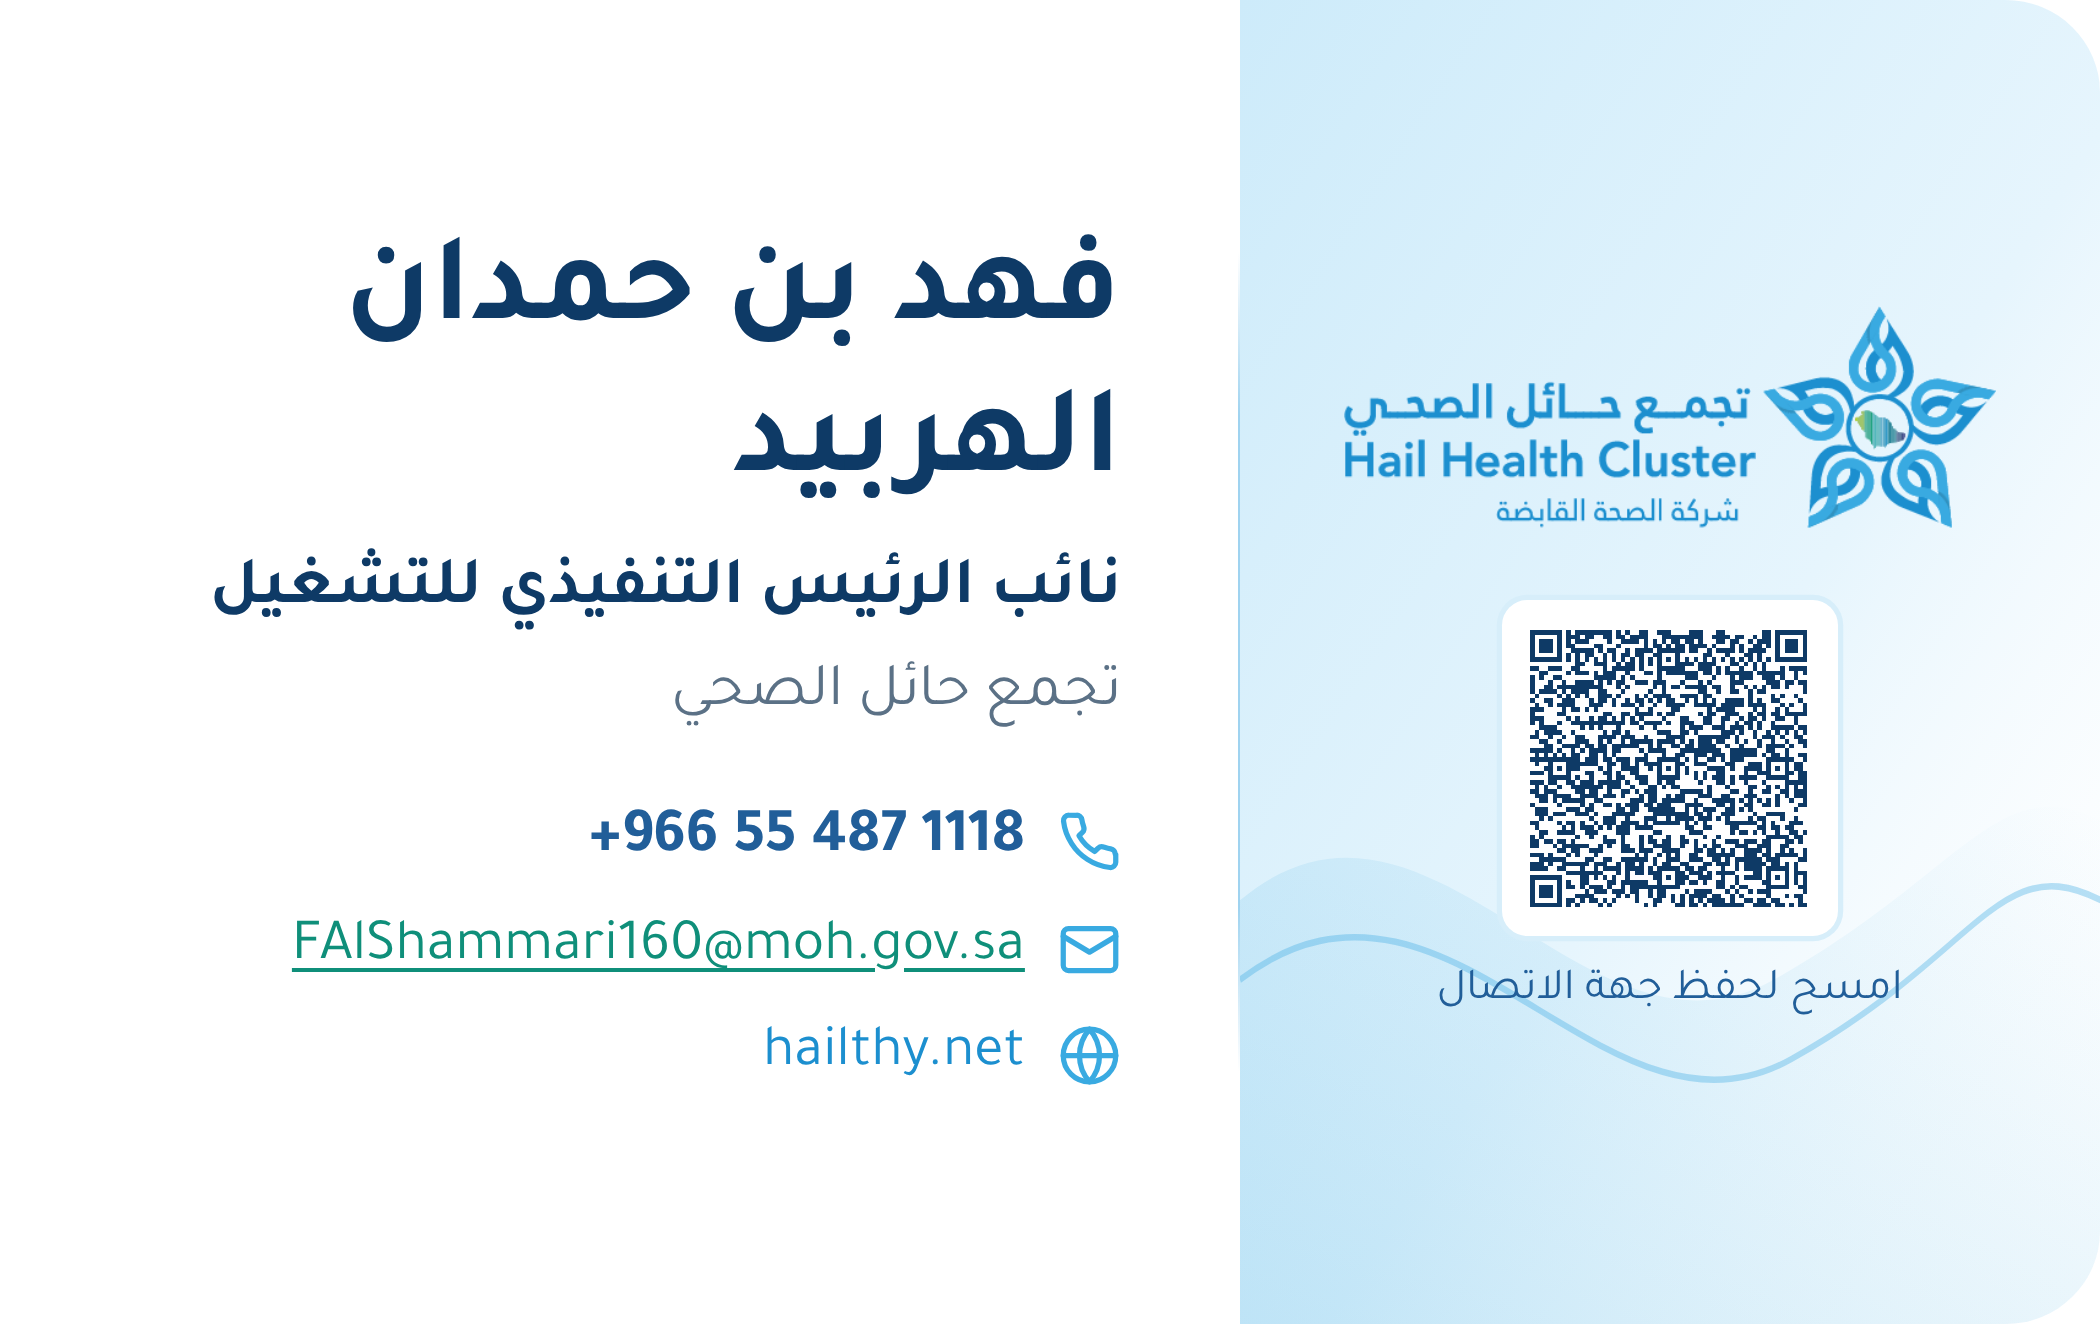
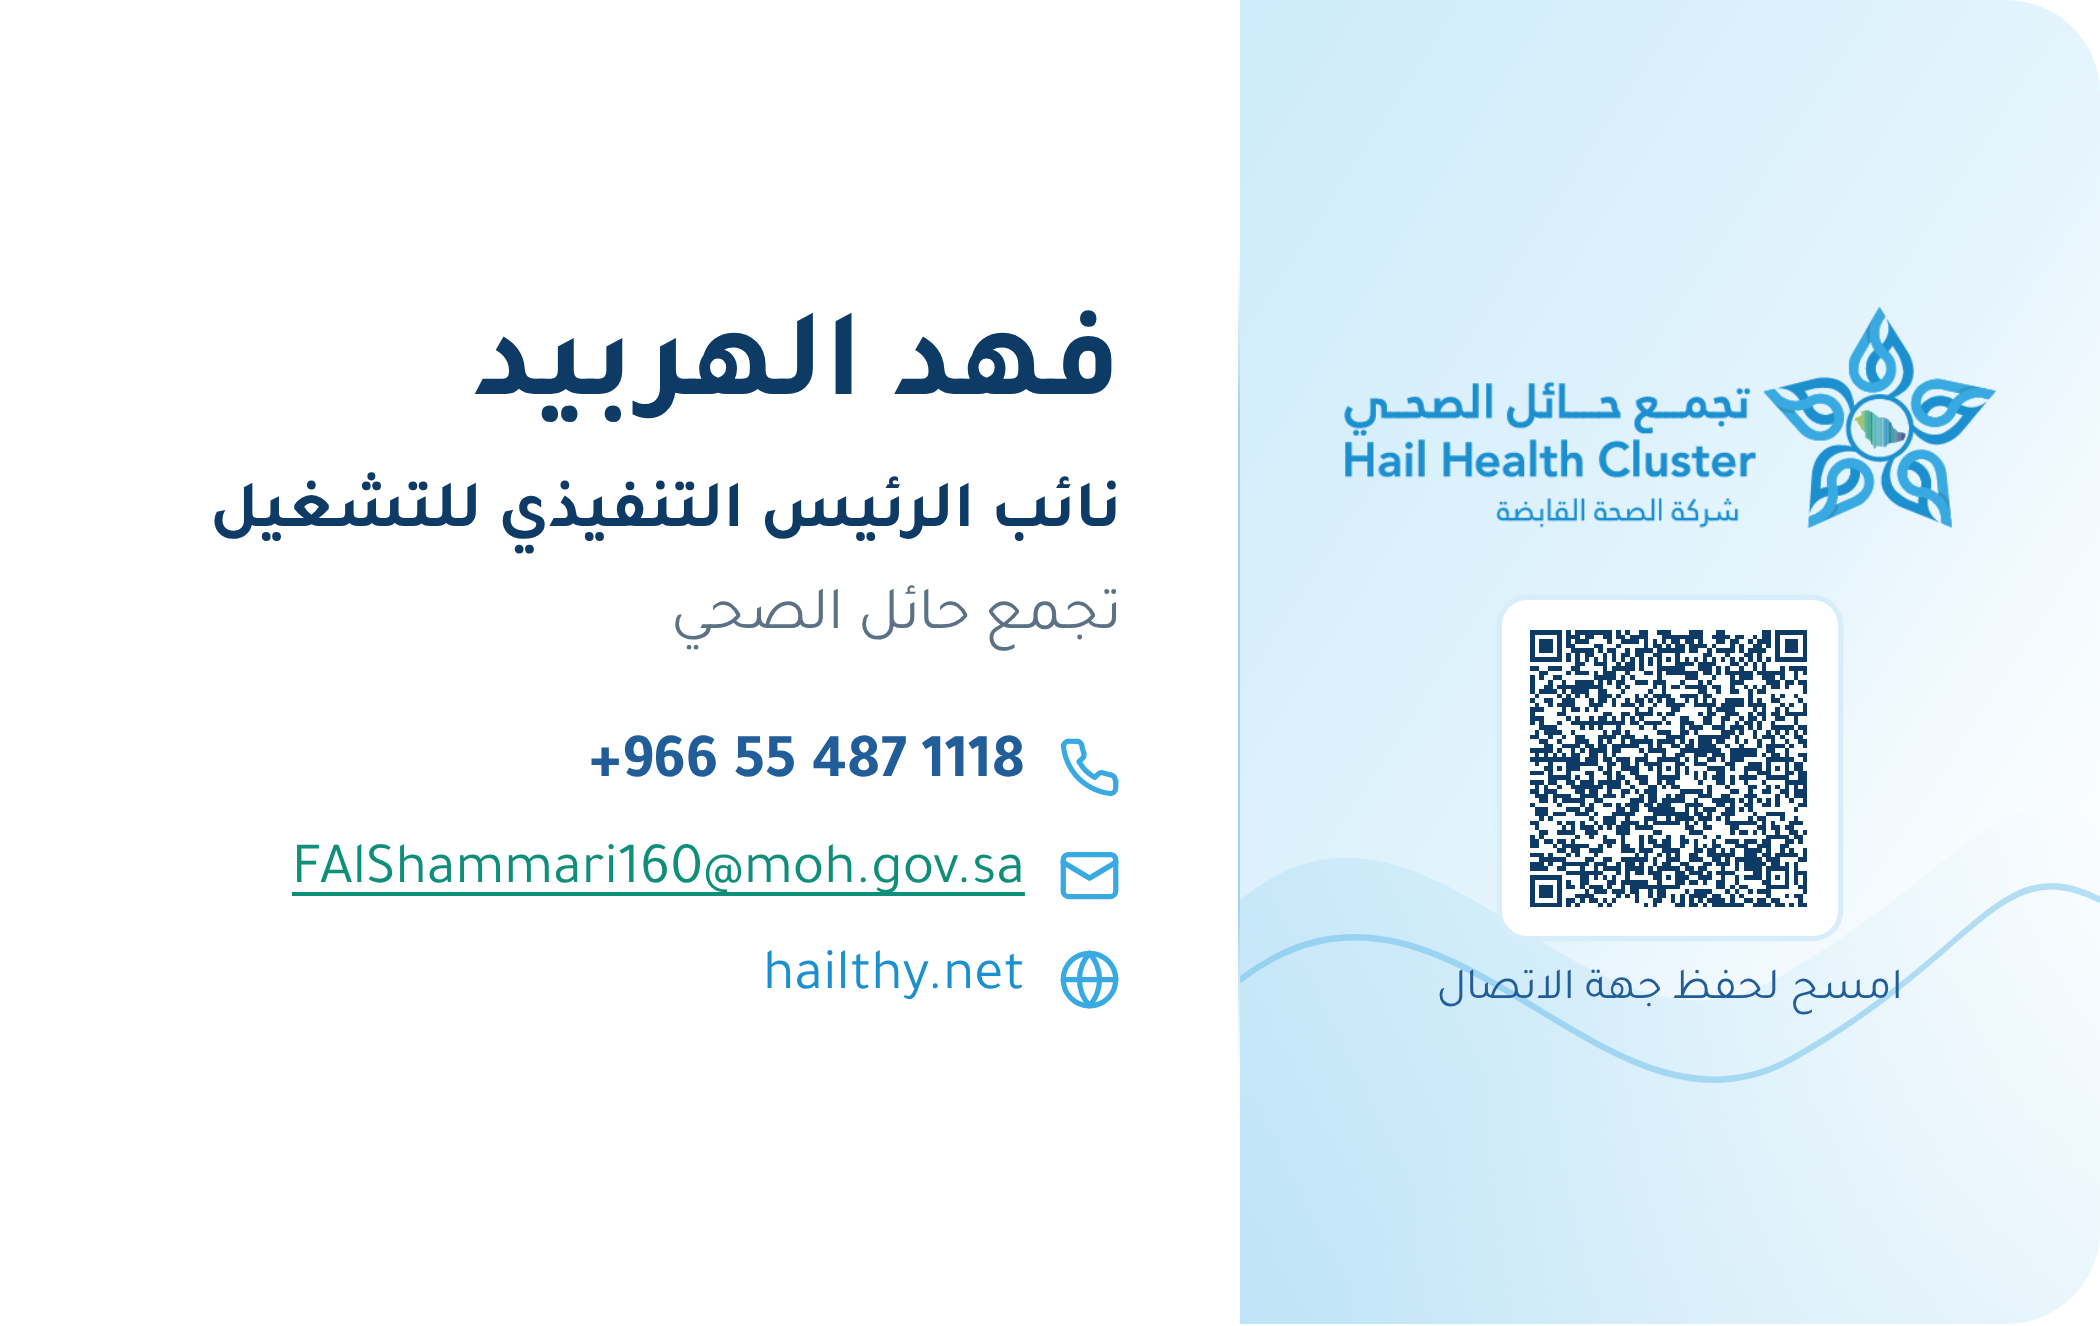
Show Fahad's Arabic name on one line; keep card configs in the repo
Claude-Session: https://claude.ai/code/session_01A1Siw2K8pY4JQKF1jR9KjP

Changed region(s): [[0.0929, 0.1855, 0.5571, 0.8348]]

diff --git a/fahad/index.html b/fahad/index.html
@@ -119,7 +119,7 @@ body{background:var(--ground);color:var(--ink);font-family:var(--font);-webkit-t
           </div>
           <div class="rule"></div>
           <div class="info">
-            <p class="name">فهد بن حمدان الهربيد</p>
+            <p class="name">فهد الهربيد</p>
             <p class="title">نائب الرئيس التنفيذي للتشغيل</p>
             <p class="org">تجمع حائل الصحي</p>
             <div class="line"><svg viewBox="0 0 24 24" fill="none" stroke="#39AAE1" stroke-width="2" stroke-linecap="round" stroke-linejoin="round" aria-hidden="true"><path d="M22 16.9v3a2 2 0 0 1-2.2 2 19.8 19.8 0 0 1-8.6-3.1 19.5 19.5 0 0 1-6-6A19.8 19.8 0 0 1 2.1 4.2 2 2 0 0 1 4.1 2h3a2 2 0 0 1 2 1.7c.1.9.4 1.8.7 2.7a2 2 0 0 1-.5 2.1L8 9.8a16 16 0 0 0 6 6l1.3-1.3a2 2 0 0 1 2.1-.4c.9.3 1.8.6 2.7.7a2 2 0 0 1 1.7 2z"/></svg><span class="tel">+966 55 487 1118</span></div>

diff --git a/tools/build_card.py b/tools/build_card.py
@@ -1,6 +1,6 @@
 """Build another person's card as a subfolder, using the main card (index.html) as the template.
 
-Usage: python3 tools/build_card.py path/to/<slug>.json
+Usage: python3 tools/build_card.py tools/cards/<slug>.json
 The folder <slug>/ gets its own page, contact files, manifest and service worker; logo, icons and fonts are shared from the root.
 """
 import io, json, re, sys, pathlib, segno
@@ -39,7 +39,7 @@ reps = [
     ('href="assets/', 'href="../assets/'),
     ('url(assets/', 'url(../assets/'),
     ('src="logo.png"', 'src="../logo.png"'),
-    ('<p class="name">فيصل الشمري</p>', f"<p class=\"name\">{cfg['ar']['name']}</p>"),
+    ('<p class="name">فيصل الشمري</p>', f"<p class=\"name\">{cfg['ar'].get('display', cfg['ar']['name'])}</p>"),
     ('<p class="title">مدير الإدارة العامة لسلاسل الإمداد</p>', f"<p class=\"title\">{cfg['ar']['title_html']}</p>"),
     ('<p class="name">Faisal Alshammari</p>', f"<p class=\"name\">{cfg['en']['name']}</p>"),
     ('<p class="title">Director, General Administration<br>of Supply Chain</p>', f"<p class=\"title\">{cfg['en']['title_html']}</p>"),
